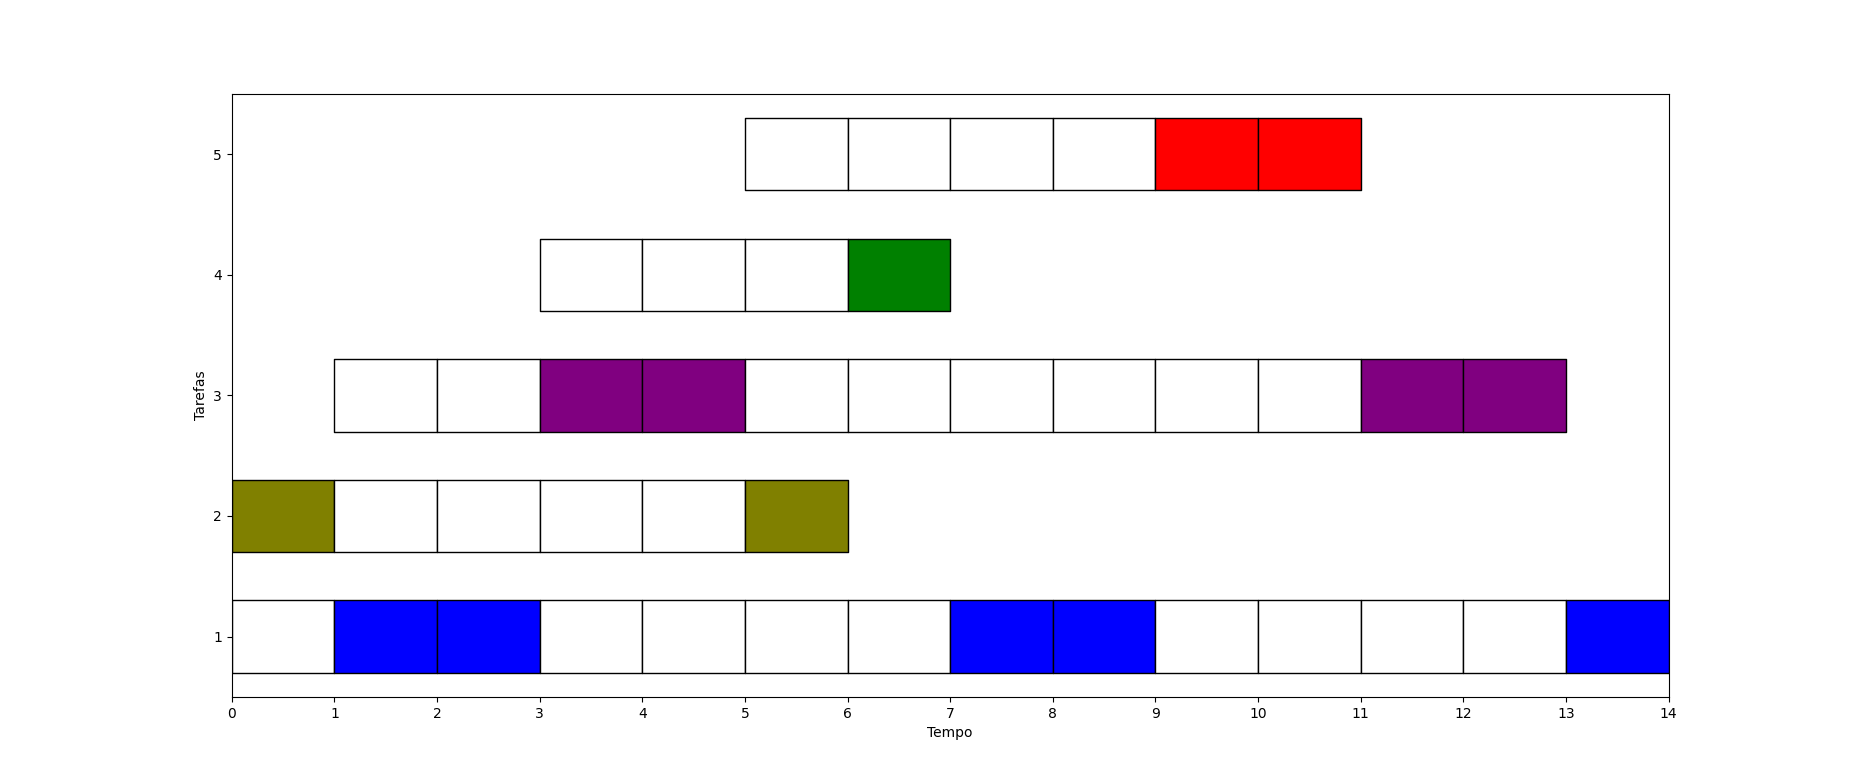
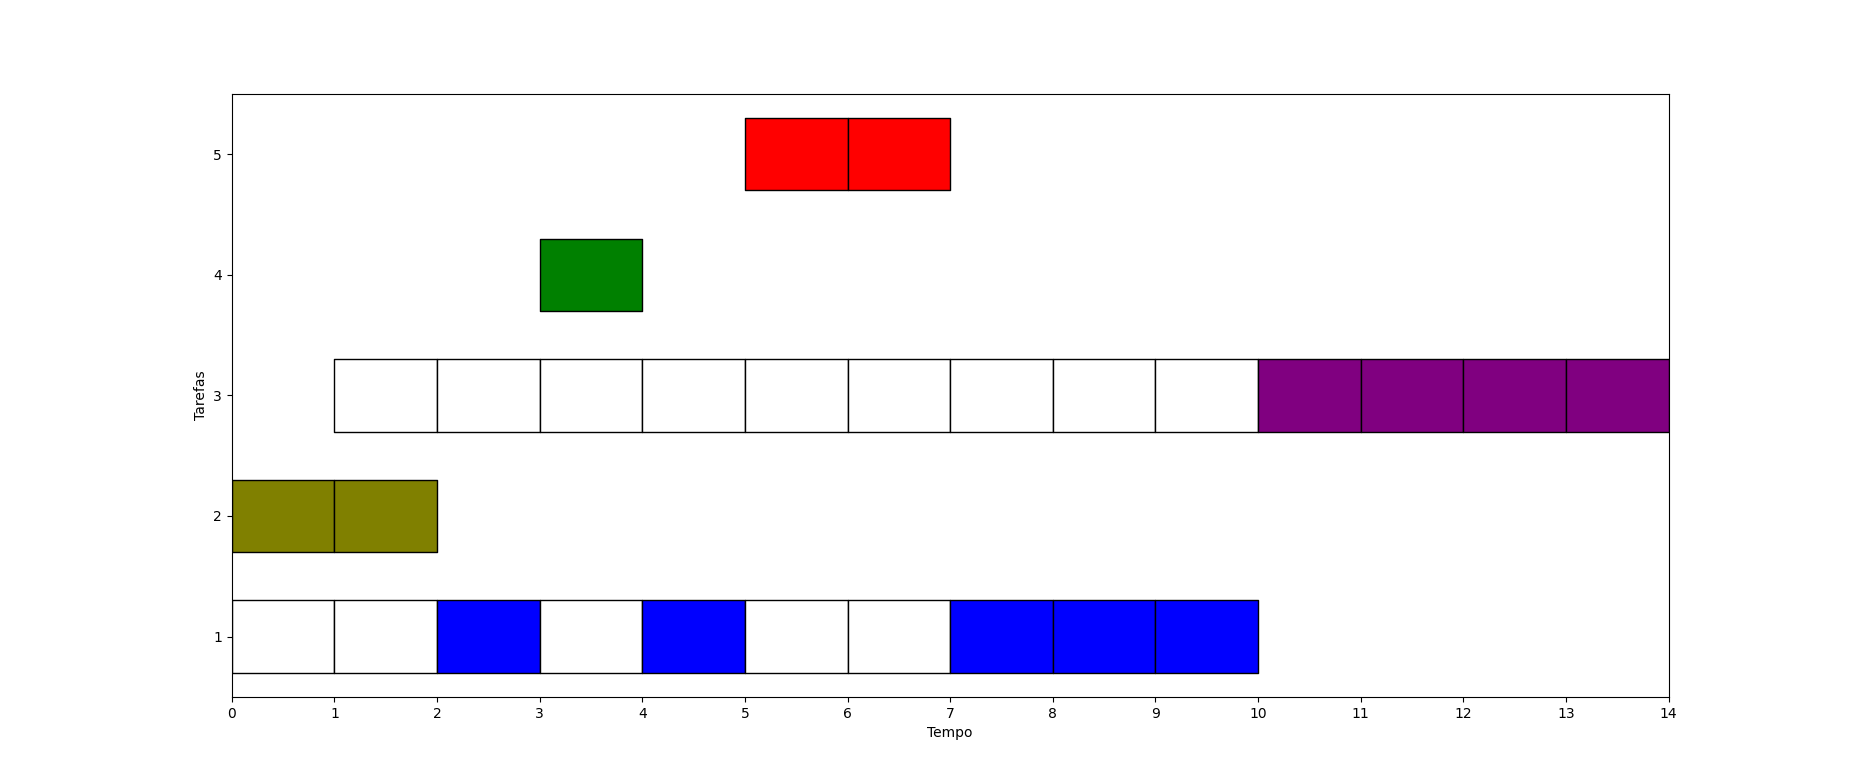
Adicionar comentários nos escalonadores

diff --git a/Escalonador.py b/Escalonador.py
@@ -22,6 +22,7 @@ class Escalonador:
     def criar_tarefa(self, id, cor, ingresso, duracao, prioridade):
         tarefa = Tarefa(id, cor, ingresso, duracao, prioridade, [])
         self.tcb.append(tarefa)
+        self.ordenar_tarefas()
         self.qtd_tarefas += 1
 
     # Exclui tarefa da tcb
@@ -50,74 +51,78 @@ class Escalonador:
 
     # Simula FIFO
     def FIFO(self):
-        self.preempcao = self.append_nova_tarefa()
+        self.preempcao = self.append_nova_tarefa()  # Verifica se entrou nova tarefa para preemptar
         self.tempo += 1
-        if len(self.tarefas_prontas) == 0:
+        if len(self.tarefas_prontas) == 0:      # Se não houver tarefas prontas pula
             return None
-        if (self.quantum_restante <= 0):
+        if (self.quantum_restante <= 0):    # Verifica de o quantum acabou para preemptar
             self.preempcao = True
-        elif (self.tarefas_prontas[0].duracao == 0):
+        elif (self.tarefas_prontas[0].duracao == 0):    # Verifica se a tarefa no processador terminou para preemptar
             self.preempcao = True
 
-        if (self.preempcao):
-            self.resetar_quantum()
-            tarefa_trocada = self.tarefas_prontas.pop(0)
+        # Em caso de preempção
+        if (self.preempcao):    
+            self.resetar_quantum()      # Reseta o valor do quantum
+            tarefa_trocada = self.tarefas_prontas.pop(0)    # Tira do começo da fila a tarefa
             if (tarefa_trocada.duracao > 0):
-                self.tarefas_prontas.append(tarefa_trocada)
+                self.tarefas_prontas.append(tarefa_trocada)     # Se a tarefa ainda não terminou, adiciona para o final da fila
 
         self.quantum_restante -= 1
 
-        if len(self.tarefas_prontas) > 0:
+        if len(self.tarefas_prontas) > 0:   
             processador = self.tarefas_prontas[0]
-            processador.duracao -= 1
-            return processador
+            processador.duracao -= 1    # Diminui a duracao da tarefa
+            return processador      # Retorna a tarefa que ocupou o processador
         else:
-            return None
+            return None     # Caso acabou a tarefa e nao há nenhuma tarefa na lista de prontas
     
     # Simula SRTF
     def SRTF(self):
-        self.preempcao = self.append_nova_tarefa()
+        self.preempcao = self.append_nova_tarefa()      # Verifica se entrou nova tarefa para preemptar
         self.tempo += 1
 
         if (self.processador):
-            if (self.processador.duracao <= 0):
+            if (self.processador.duracao <= 0):     # Verifica se acabou a tarefa para preemptar
                 self.preempcao = True
-                self.tarefas_prontas.remove(self.processador)
-                self.processador = None
+                self.tarefas_prontas.remove(self.processador)   # Remove da lista de prontas
+                self.processador = None     # Limpa a variavel que guarda o processador
 
-        if len(self.tarefas_prontas) == 0:
+        if len(self.tarefas_prontas) == 0:      # Verifica se há tarefas prontas
             return None
 
-        if (self.quantum_restante <= 0):
+        if (self.quantum_restante <= 0):       # Verifica se acabou o quantum para preemptar
             self.preempcao = True
 
-        if (self.preempcao):
+        # Caso tenha preempção
+        if (self.preempcao):       
             self.processador = self.tarefas_prontas[0]
-            for tarefa in self.tarefas_prontas:
-                if (tarefa.duracao < self.processador.duracao) and (tarefa.duracao > 0):
+            for tarefa in self.tarefas_prontas:                 # Verifica entre as tarefas prontas qual tarefa possui a menor duracao restante
+                if (tarefa.duracao < self.processador.duracao):
                     self.processador = tarefa
                     
-        self.processador.duracao -= 1
+        self.processador.duracao -= 1   
 
         return self.processador
     
     # Simula Prio Preemp
     def prio_preemp(self):
-        self.preempcao = self.append_nova_tarefa()
+        self.preempcao = self.append_nova_tarefa()  # Verifica se há nova tarefa para preemptar
         self.tempo += 1
-        if (self.processador):
-            if (self.processador.duracao <= 0):
-                self.preempcao = True
-                self.tarefas_prontas.remove(self.processador)
-                self.processador = None
 
-        if len(self.tarefas_prontas) == 0:
+        if (self.processador):
+            if (self.processador.duracao <= 0):                 # Verifica se a tarefa que estava no processador acabou para preemptar
+                self.preempcao = True                           # Caso acabou preempta
+                self.tarefas_prontas.remove(self.processador)   # Remove da lista de tarefas prontas
+                self.processador = None                         # Limpa o processador
+
+        if len(self.tarefas_prontas) == 0:                      # Verifica se hátarefas na lista de prontas
             return None
 
+        # Caso há preempção
         if (self.preempcao):
             self.processador = self.tarefas_prontas[0]
-            for tarefa in self.tarefas_prontas:
-                if (tarefa.prioridade > self.processador.prioridade) and (tarefa.duracao > 0):
+            for tarefa in self.tarefas_prontas:                 # Verifica qual tarefa tem maior prioridade na lista de prontas
+                if (tarefa.prioridade > self.processador.prioridade):
                     self.processador = tarefa
 
         self.processador.duracao -= 1
@@ -144,3 +149,7 @@ class Escalonador:
     # Reseta o valor do quantum para o original
     def resetar_quantum(self):
         self.quantum_restante = self.quantum
+
+    # Ordena as tarefas por id
+    def ordenar_tarefas(self):
+        self.tcb.sort(key=lambda t: t.id)
